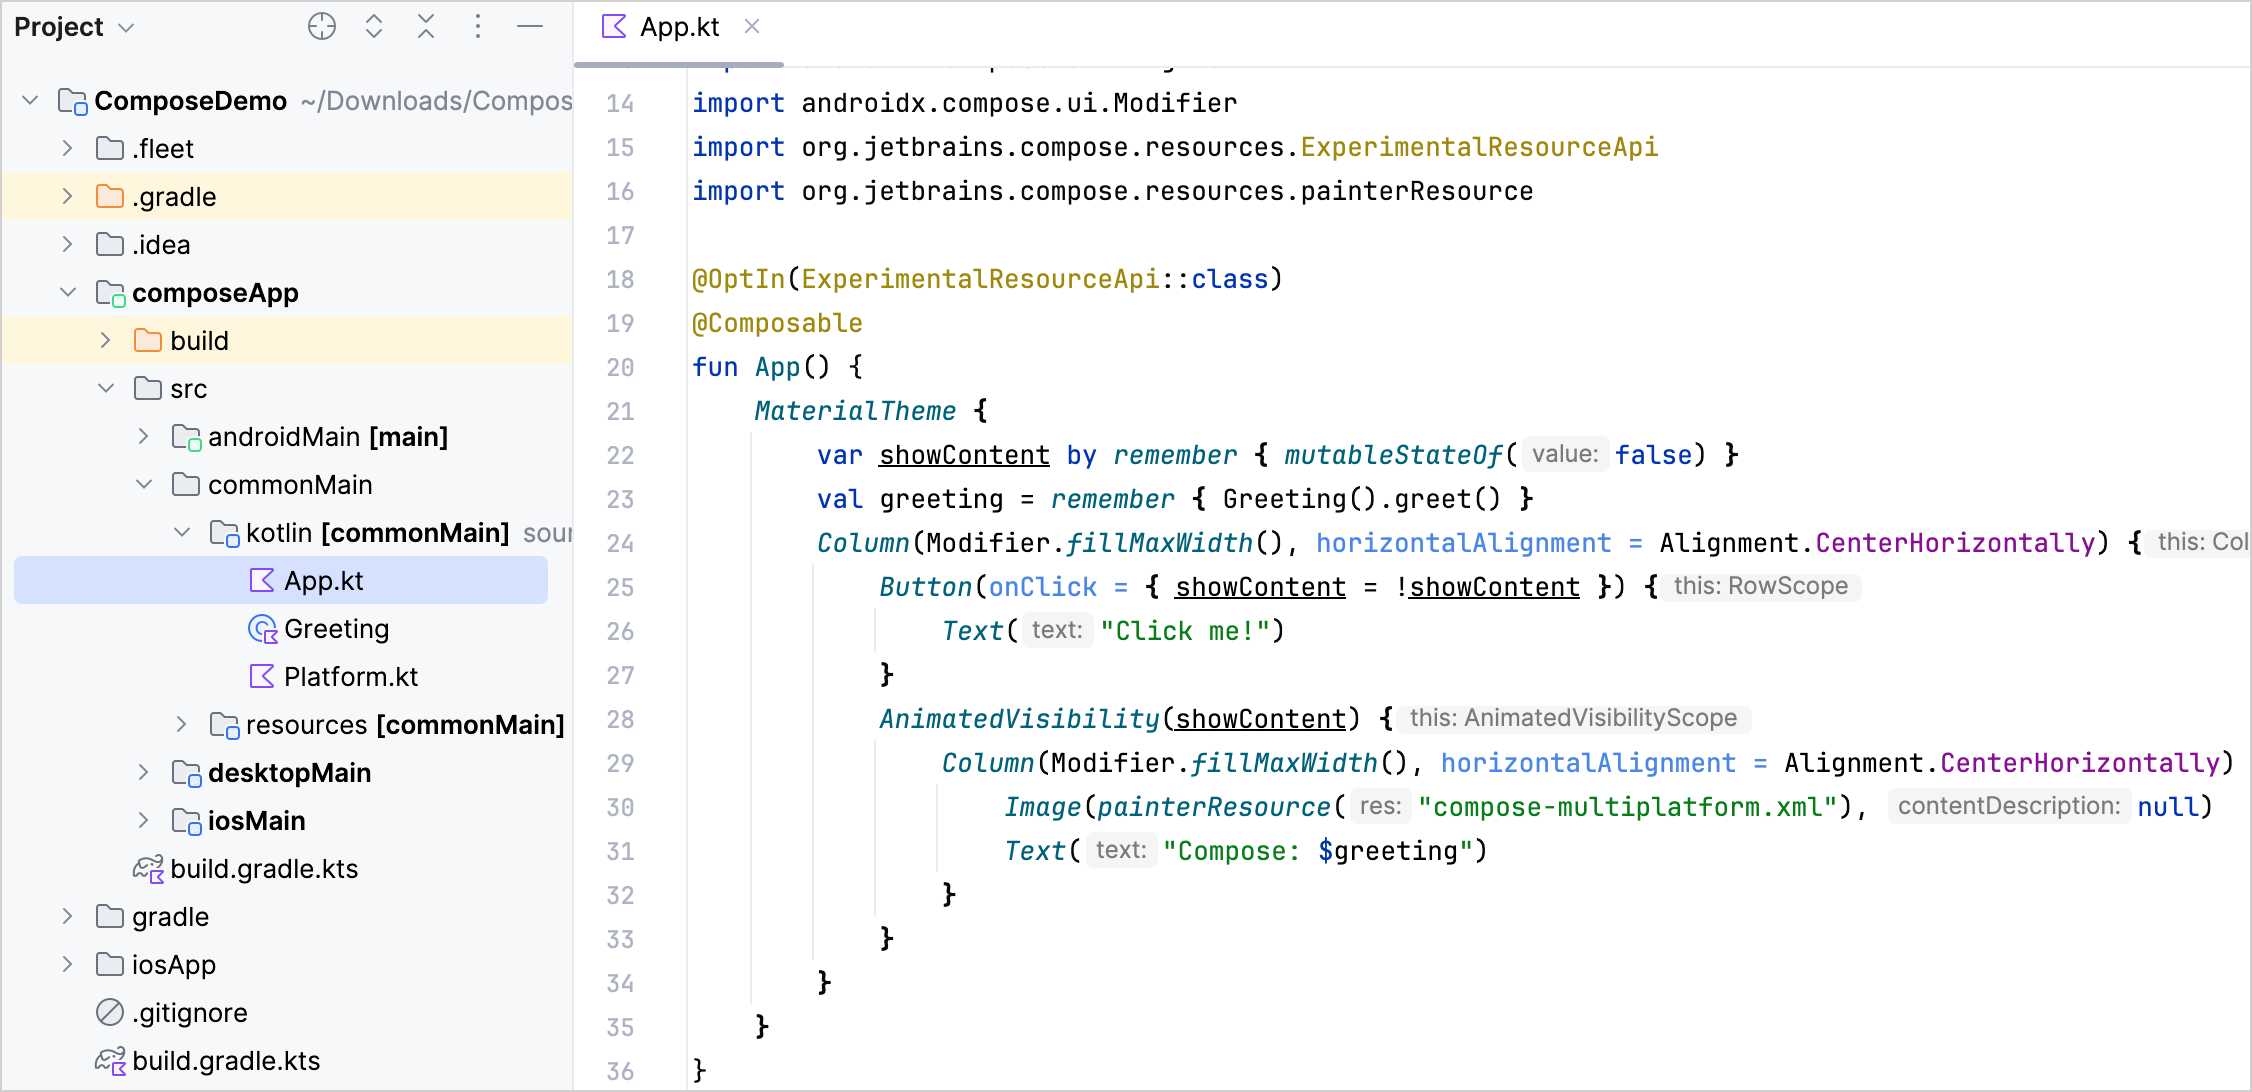
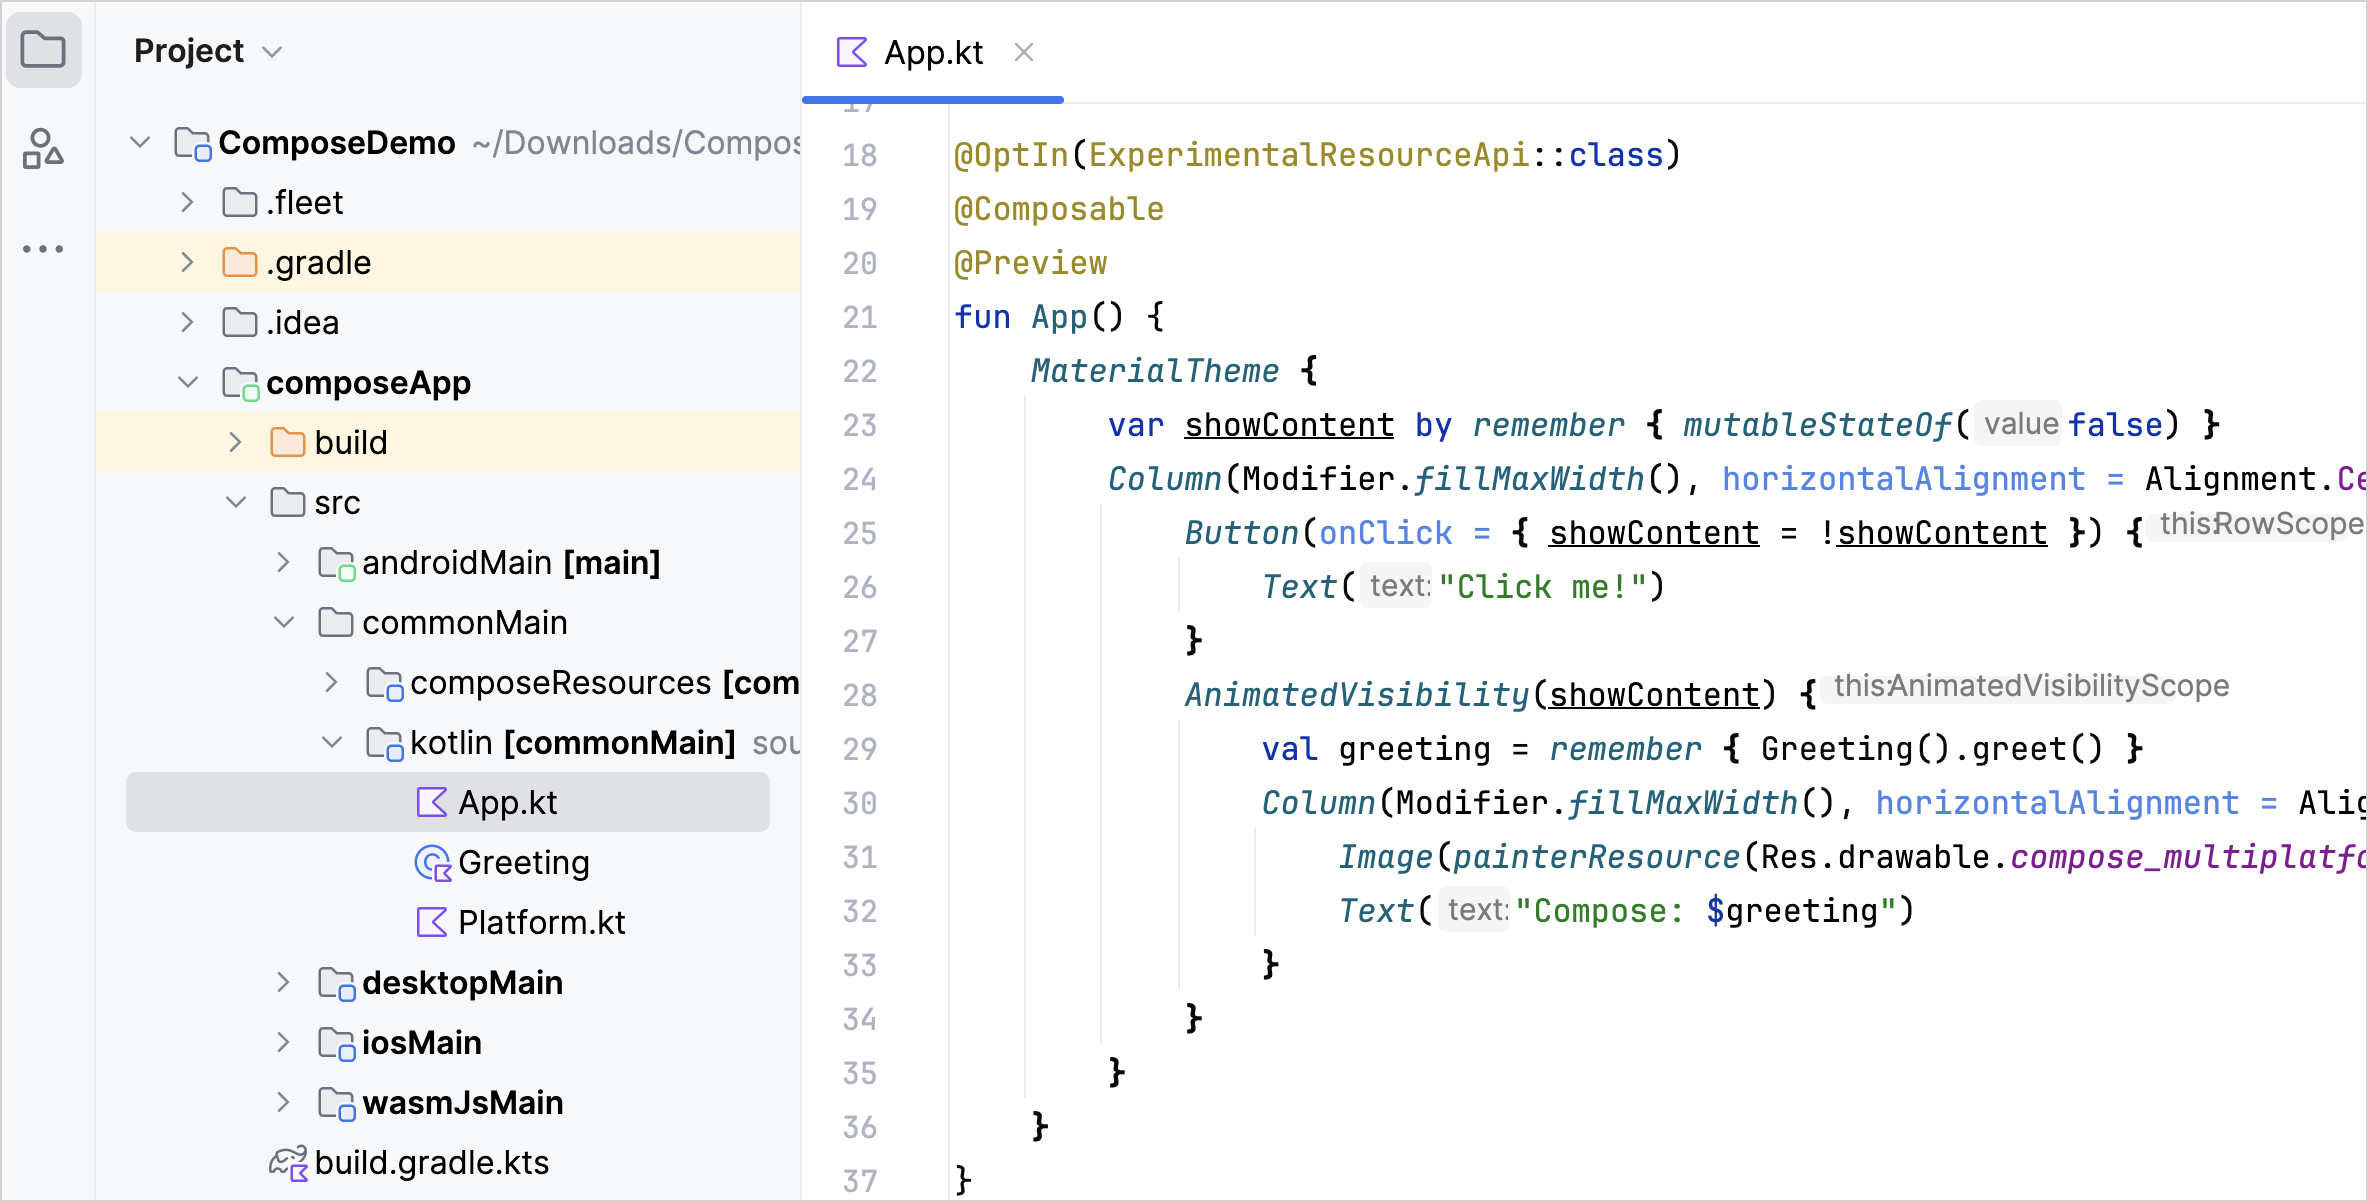
Compose for web first draft

diff --git a/topics/compose-onboard/compose-multiplatform-create-first-app.md b/topics/compose-onboard/compose-multiplatform-create-first-app.md
@@ -19,7 +19,7 @@ To begin, create a sample project. This is best achieved with the Kotlin Multipl
 
 1. Open the [Kotlin Multiplatform wizard](https://kmp.jetbrains.com).
 2. On the **New project** tab, change the project name to "ComposeDemo" and the project ID to "kmp.project.demo".
-3. Select the **Android** and **Desktop** options.
+3. Select the **Android**, **Desktop**, and **Web** options.
 4. If you're using a Mac, select **iOS** as well. Make sure that the **Share UI** option is selected.
 5. Click the **Download** button and unpack the resulting archive.
 
@@ -42,7 +42,7 @@ To begin, create a sample project. This is best achieved with the Kotlin Multipl
 
 The project contains two modules:
 
-* _composeApp_ is a Kotlin module that contains the logic shared among the Android, desktop, and iOS applications – the code
+* _composeApp_ is a Kotlin module that contains the logic shared among the Android, desktop, iOS, and web applications – the code
   you use for all the platforms. It uses [Gradle](https://kotlinlang.org/docs/gradle.html) as the build system that helps
   you automate your build process.
 * _iosApp_ is an Xcode project that builds into an iOS application. It depends on and uses the shared module as an iOS
@@ -50,15 +50,17 @@ The project contains two modules:
 
   ![Compose Multiplatform project structure](compose-project-structure.png){width=350}
 
-The **composeApp** module consists of four source sets: `androidMain`, `commonMain`, `desktopMain`, and `iosMain`.
+The **composeApp** module consists of five source sets: `androidMain`, `commonMain`, `desktopMain`, `iosMain`, and `wasmJsMain`.
 A _source set_ is a Gradle concept for a number of files logically grouped together, where each group has its own
 dependencies. In Kotlin Multiplatform, different source sets can target different platforms.
 
 The `commonMain` source set uses the common Kotlin code, and platform source sets use Kotlin code specific to each
-target. Kotlin/JVM is used for `androidMain` and `desktopMain`. Kotlin/Native is used for `iosMain`.
+target. Kotlin/JVM is used for `androidMain` and `desktopMain`. Kotlin/Native is used for `iosMain`. On the other hand, Kotlin/Wasm is 
+used for `wasmJsMain`.
 
 When the shared module is built into an Android library, common Kotlin code gets treated as Kotlin/JVM. When it is built
-into an iOS framework, common Kotlin code gets treated as Kotlin/Native:
+into an iOS framework, common Kotlin code gets treated as Kotlin/Native. When the shared module is built into a web app, common 
+Kotlin code gets treated as Kotlin/Wasm.
 
 ![Common Kotlin, Kotlin/JVM, and Kotlin/Native](modules-structure.png){width=700}
 
@@ -74,7 +76,7 @@ Let's run the application and then examine the code in depth.
 
 ## Run your application
 
-You can run the application on Android, iOS, and desktop. You don't have to run the applications in any particular
+You can run the application on Android, iOS, desktop, and web. You don't have to run the applications in any particular
 order, so start with whichever platform you are most familiar with.
 
 > You don't need to use the Gradle build task. In a multiplatform application, this will build debug and release versions
@@ -214,6 +216,36 @@ You can create a run configuration for running the desktop application as follow
 Now, you can use this configuration to run the desktop app:
 
 ![Run the Compose Multiplatform app on desktop](compose-run-desktop-temp.png){width=350}
+
+### Run your application on the web
+
+Similar to running the desktop application, you need to create a run configuration to run the web application:
+
+1. Select the **Run | Edit Configurations** menu item.
+2. Click the plus button and choose **Gradle** from the dropdown list.
+3. In the **Tasks and arguments** field, paste this command:
+
+   ```shell
+   wasmJsBrowserRun -t --quiet
+   ```
+
+4. Click **OK**.
+
+Now, you can use this configuration to run the web app:
+
+![Run the Compose Multiplatform app on desktop](compose-run-web.png){width=350}
+
+The web application opens automatically in your browser. Alternatively, you can type the following URL in your browser when the run is finished:
+
+```shell
+   http://localhost:8080/
+```
+> The port number can vary because the 8080 port may be unavailable. You can find the actual port number printed in the 
+> Gradle build console.
+>
+{type="tip"}
+
+![Compose web application](first-compose-project-on-web.png){width=550}
 
 ## Next step
 

diff --git a/topics/multiplatform-publish-apps.md b/topics/multiplatform-publish-apps.md
@@ -1,8 +1,10 @@
 [//]: # (title: Publish your application)
 
-Once your mobile apps are ready for release, it's time to deliver them to the users by publishing them in app stores.
-Multiple stores are available for each platform. However, in this article we'll focus on the official ones:
-[Google Play Store](https://play.google.com/store) and [Apple App Store](https://www.apple.com/ios/app-store/).
+Once your apps are ready for release, it's time to deliver them to the users by publishing them.
+
+For mobile apps, multiple stores are available for each platform. However, in this article, we'll focus on the official ones:
+[Google Play Store](https://play.google.com/store) and [Apple App Store](https://www.apple.com/ios/app-store/). For web apps, we'll use [GitHub pages](https://pages.github.com/). 
+
 You'll learn how to prepare Kotlin Multiplatform applications for publishing, and we'll highlight
 the parts of this process that deserve special attention.
 
@@ -72,3 +74,54 @@ file. This helps you analyze crashes that happen in the shared module's code.
 When an iOS app is rebuilt from bitcode, its `dSYM` file becomes invalid. For such cases, you can compile the shared module
 to a static framework that stores the debug information inside itself. For instructions on setting up crash report
 symbolication in binaries produced from Kotlin modules, see the [Kotlin/Native documentation](https://kotlinlang.org/docs/native-ios-symbolication.html).
+
+## Web app
+
+To publish your web application, you first need to create the artifacts containing the compiled files 
+and resources that make up your application. These artifacts are necessary to deploy your application to a web hosting platform like GitHub Pages.
+
+### Generate artifacts
+
+Create a run configuration for running the **wasmJsBrowserDistribution** task:
+
+1. Select the **Run | Edit Configurations** menu item.
+2. Click the plus button and choose **Gradle** from the dropdown list.
+3. In the **Tasks and arguments** field, paste this command:
+
+   ```shell
+   wasmJsBrowserDistribution
+   ```
+
+4. Click **OK**.
+
+Now, you can use this configuration to run the task:
+
+![Run the Wasm distribution task](compose-run-wasm-distribution-task.png){width=350}
+
+Once the application task completes, you can find the generated artifacts in the `composeApp/build/dist/wasmJs/productionExecutable`
+directory:
+
+![Artifacts directory](compose-web-artifacts.png){width=600}
+
+### Publish your application on GitHub Pages
+
+With the artifacts ready, you can deploy your application on a web hosting platform. In this example, we use GitHub Pages:
+
+1. Copy all the contents in your `productionExecutable` directory into the repository where you want to create a site.
+2. Follow GitHub's instructions for [creating your site](https://docs.github.com/en/pages/getting-started-with-github-pages/creating-a-github-pages-site#creating-your-site).
+
+   > It can take up to 10 minutes for changes to your site to publish after you push the changes to GitHub.
+   >
+   {type="note"}
+
+3. In a browser, navigate to your GitHub pages domain.
+
+   ![Navigate to GitHub pages](publish-your-application-on-web.png){width=650}
+
+   Congratulations! You have published your artifacts on GitHub pages.
+
+### Debug your web application
+
+You can debug your web application in your browser out of the box, without additional configurations. To learn how to debug
+your web application, see the [Debug in your browser](https://kotlinlang.org/docs/wasm-debugging.html#debug-in-your-browser)
+guide in Kotlin docs.

diff --git a/topics/compose-onboard/compose-multiplatform-explore-composables.md b/topics/compose-onboard/compose-multiplatform-explore-composables.md
@@ -20,15 +20,16 @@ Take a look at the `App()` function in `composeApp/src/commonMain/kotlin`:
 ```kotlin
 @OptIn(ExperimentalResourceApi::class)
 @Composable
+@Preview
 fun App() {
     MaterialTheme {
         var showContent by remember { mutableStateOf(false) }
-        val greeting = remember { Greeting().greet() }
         Column(Modifier.fillMaxWidth(), horizontalAlignment = Alignment.CenterHorizontally) {
             Button(onClick = { showContent = !showContent }) {
                 Text("Click me!")
             }
             AnimatedVisibility(showContent) {
+                val greeting = remember { Greeting().greet() }
                 Column(Modifier.fillMaxWidth(), horizontalAlignment = Alignment.CenterHorizontally) {
                     Image(painterResource(Res.drawable.compose_multiplatform), null)
                     Text("Compose: $greeting")
@@ -84,8 +85,8 @@ The changes occur when the image is shown or hidden because the parent `Animated
 
 ## Launching UI on different platforms
 
-The `App()` function execution is different for each platform. On Android, it's managed by an activity, on iOS by a view
-controller, and on desktop by a window. Let's examine each of them.
+The `App()` function execution is different for each platform. On Android, it's managed by an activity; on iOS, by a view 
+controller; on the desktop, by a window; and on the web, by a container. Let's examine each of them.
 
 ### On Android
 
@@ -119,7 +120,7 @@ role as an activity on Android. Notice that both the iOS and Android types simpl
 
 ### On desktop
 
-For desktop, look again at the `main()` function in `composeApp/src/desktopMain/kotlin`:
+For desktop, look at the `main()` function in `composeApp/src/desktopMain/kotlin`:
 
 ```kotlin
 fun main() = application {
@@ -136,6 +137,33 @@ fun main() = application {
 
 Currently, the `App` function doesn't declare any parameters. In a larger application, you typically pass parameters to
 platform-specific dependencies. These dependencies could be created by hand or using a dependency injection library.
+
+### On the web
+
+For the web, look again at the `main()` function in `composeApp/src/wasmJsMain/kotlin`. The function has two variants:
+
+```kotlin
+// First variant:
+@OptIn(ExperimentalComposeUiApi::class)
+fun main() {
+    ComposeViewport(viewportContainerId = document.body!!) { App() }
+}
+
+
+//Second variant:
+@OptIn(ExperimentalComposeUiApi::class)
+fun main() {
+    ComposeViewport(viewportContainerId = "composeApplication") { App() }
+}
+```
+
+* In the first variant, the web app is inserted into the value assigned to the `viewportContainerId` parameter.
+  The `viewportContainerId` parameter uses the entire body of the HTML document as the container for rendering the UI.
+* In the second variant, `composeApplication` is the ID of the container added in your `index.html` file, where the UI is rendered.
+* In both variants, the `@OptIn(ExperimentalComposeUiApi::class)` annotation tells the compiler that you are using an API marked as 
+  experimental and may change in future releases.
+* The `ComposeViewport` function sets up the Compose environment for the application.
+* The `App()` function is responsible for building the UI components of your application using Jetpack Compose.
 
 ## Next step
 

diff --git a/topics/compose-onboard/compose-multiplatform-setup.md b/topics/compose-onboard/compose-multiplatform-setup.md
@@ -57,6 +57,17 @@ We recommend that you install the latest stable versions for compatibility and b
             <p>To update the plugin, on the Android Studio welcome screen, select <strong>Plugins | Installed</strong>. Click <strong>Update</strong> next to Kotlin. You can also check the Kotlin version in <strong>Tools | Kotlin | Configure Kotlin Plugin Updates</strong>.</p>
             <p>The Kotlin plugin should be compatible with the Kotlin Multiplatform Mobile plugin. Refer to the <a href="https://kotlinlang.org/docs/multiplatform-plugin-releases.html#release-details">compatibility table</a>.</p></td>
    </tr>
+    <tr>
+        <td>Browsers</td>
+        <td>
+            <p>To run multiplatform applications in a browser, you need a browser supporting the <a href="https://github.com/WebAssembly/gc">Wasm Garbage Collection (GC) feature</a>.</p>
+            <list>
+                <li><strong>Chrome and Chromium-based:</strong> works by default from version 119 and subsequent versions.</li>
+                <li><strong>Firefox:</strong> works by default from version 120 and subsequent versions.</li>
+                <li><strong>Safari/WebKit:</strong> Wasm GC support is currently under <a href="https://bugs.webkit.org/show_bug.cgi?id=247394">active development.</a></li>
+            </list>
+        </td>
+    </tr>
 </table>
 
 ## Check your environment
@@ -142,6 +153,9 @@ To make sure everything works as expected, install and run the KDoctor tool:
               <li><code>command not found: brew</code> — <a href="https://brew.sh/">install Homebrew</a>.</li>
               <li><code>command not found: java</code> — <a href="https://www.oracle.com/java/technologies/javase-downloads.html">install Java</a>.</li>
            </list>
+   </def>
+   <def title="Browsers">
+      Make sure that your browser version supports the new <a href="https://github.com/WebAssembly/gc">WasmGC</a> by default. If you are working with older browser versions, you need to <a href="https://kotlinlang.org/docs/wasm-troubleshooting.html#browser-versions">configure the environment</a>.
    </def>
    <def title="Still having trouble?">
             <p>Share your problems with the team by <a href="https://kotl.in/issue">creating a YouTrack issue</a>.</p>
